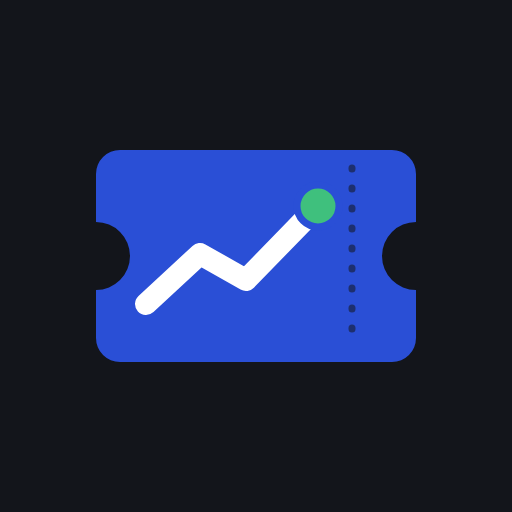
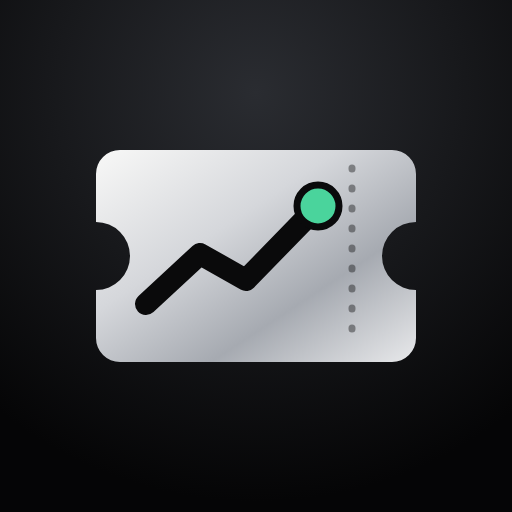
Vici: black and platinum redesign, Jost type, Starting Balance editor removed
Rename the app to Vici (title, home-screen label, manifest, connect screen).
Always-black colour scheme with platinum accents; display type is Jost light.
The Starting Balance editor is gone; settings stay in ledger.json.
New platinum icon set; service worker cache bumped to ledger-v2.

Claude-Session: https://claude.ai/code/session_013p2RnCi5cHiHWKuVkfNhgP

Changed region(s): [[0.1875, 0.2812, 0.8125, 0.7188]]

diff --git a/index.html b/index.html
@@ -3,65 +3,45 @@
 <head>
 <meta charset="utf-8">
 <meta name="viewport" content="width=device-width,initial-scale=1,viewport-fit=cover">
-<title>PrizePicks Ledger</title>
-<meta name="description" content="Personal PrizePicks bet tracker: balance, PnL, open risk and every entry.">
+<title>Vici</title>
+<meta name="description" content="Vici: personal PrizePicks bet tracker with balance, PnL, open risk and every entry.">
 <meta name="robots" content="noindex, nofollow">
 <link rel="manifest" href="manifest.webmanifest">
 <link rel="icon" href="icons/icon-192.png" type="image/png">
 <link rel="apple-touch-icon" href="icons/apple-touch-icon.png">
 <meta name="apple-mobile-web-app-capable" content="yes">
 <meta name="mobile-web-app-capable" content="yes">
-<meta name="apple-mobile-web-app-title" content="Ledger">
+<meta name="apple-mobile-web-app-title" content="Vici">
 <meta name="apple-mobile-web-app-status-bar-style" content="black-translucent">
-<meta name="theme-color" content="#13151b">
+<meta name="theme-color" content="#050506">
 <link rel="preconnect" href="https://fonts.googleapis.com">
 <link rel="preconnect" href="https://fonts.gstatic.com" crossorigin>
-<link rel="stylesheet" href="https://fonts.googleapis.com/css2?family=Barlow+Condensed:wght@500;600;700&family=Inter:wght@400;500;600&family=JetBrains+Mono:wght@400;500&display=swap">
+<link rel="stylesheet" href="https://fonts.googleapis.com/css2?family=Jost:wght@300;400;500&family=Inter:wght@400;500;600&family=JetBrains+Mono:wght@400;500&display=swap">
 <style>:root{color-scheme:light;box-sizing:border-box;padding-top:env(safe-area-inset-top,0px);padding-bottom:env(safe-area-inset-bottom,0px)}html{scroll-padding-top:env(safe-area-inset-top,0px);-webkit-text-size-adjust:100%}body{margin:0;padding:0}img{max-width:100%}[hidden]{display:none!important}</style>
 <script src="config.js"></script>
 <style>
 /* Layout: a sportsbook ticket ledger. Header, filter bar, KPI scoreboard, analytics grid (balance + records, open risk, PnL splits, edge, daily), open slips, entry log. */
+/* Colour scheme: Black & platinum. Always black, whatever the device or claude.ai theme. */
 :root {
-  --bg: #f3f4f7;
-  --panel: #ffffff;
-  --ink: #13151b;
-  --ink-2: #4a4f5c;
-  --ink-3: #7b8090;
-  --line: #e1e3ea;
-  --line-2: #eceef3;
-  --accent: #2a4fd6;
-  --accent-soft: #e6ebfc;
-  --good: #11804a;
-  --good-soft: #e3f4ea;
-  --bad: #c23a3a;
-  --bad-soft: #fbe7e7;
-  --warn: #a86a00;
-  --warn-soft: #fbf0d9;
-  --grid: #e9ebf0;
-  --s1: #2a78d6; --s2: #eb6834; --s3: #1baf7a; --s4: #eda100;
-  --shadow: 0 1px 2px rgba(20,24,40,.05), 0 6px 24px rgba(20,24,40,.05);
-  --f-display: "Barlow Condensed", "Arial Narrow", system-ui, sans-serif;
+  --bg: #050506; --panel: #0f1012; --ink: #f2f2f3; --ink-2: #acaeb4; --ink-3: #85888f;
+  --line: #26272b; --line-2: #18191c; --accent: #d6d8dc; --accent-soft: #1d1e22;
+  --good: #4ad49c; --good-soft: #0d2219; --bad: #ff7d88; --bad-soft: #2b1216; --warn: #f2b65e; --warn-soft: #2a2010;
+  --grid: #1c1d20; --s1: #9fb9ee; --s2: #ecaa8b; --s3: #c0b3ee; --s4: #88d1c3;
+  --shadow: inset 0 1px 0 rgba(255,255,255,.035), 0 14px 34px rgba(0,0,0,.6); --on-accent: #0a0a0b;
+  --accent-grad: linear-gradient(135deg, #f8f8f7 0%, #d5d7db 38%, #a6aab1 68%, #e8e9eb 100%);
+  --hero-bg: linear-gradient(155deg, #25272c 0%, #16171b 46%, #0f1012 100%);
+  --bg-deco: radial-gradient(1200px 560px at 50% -22%, rgba(222,224,228,.075), transparent 65%);
+  --f-display: "Jost", "Futura", "Avenir Next", system-ui, sans-serif;
   --f-body: "Inter", system-ui, -apple-system, "Segoe UI", sans-serif;
   --f-mono: "JetBrains Mono", ui-monospace, "SF Mono", Menlo, monospace;
   --r: 10px;
-  --on-accent: #ffffff;
+  --plat-text: linear-gradient(180deg, #ffffff 0%, #e4e6e9 46%, #a2a6ad 100%);
+  color-scheme: dark;
 }
-@media (prefers-color-scheme: dark) { :root:not([data-theme="light"]) {
-  --bg: #0f1116; --panel: #171a21; --ink: #eef0f5; --ink-2: #b4b9c6; --ink-3: #848a99;
-  --line: #2a2e38; --line-2: #22252d; --accent: #7f97ff; --accent-soft: #232b4a;
-  --good: #3fc07d; --good-soft: #15301f; --bad: #f07272; --bad-soft: #3a1c1e; --warn: #e3a93a; --warn-soft: #362a12;
-  --grid: #252832; --s1: #3987e5; --s2: #d95926; --s3: #199e70; --s4: #c98500;
-  --shadow: 0 1px 2px rgba(0,0,0,.3); --on-accent: #0f1116; color-scheme: dark; } }
-:root[data-theme="dark"] {
-  --bg: #0f1116; --panel: #171a21; --ink: #eef0f5; --ink-2: #b4b9c6; --ink-3: #848a99;
-  --line: #2a2e38; --line-2: #22252d; --accent: #7f97ff; --accent-soft: #232b4a;
-  --good: #3fc07d; --good-soft: #15301f; --bad: #f07272; --bad-soft: #3a1c1e; --warn: #e3a93a; --warn-soft: #362a12;
-  --grid: #252832; --s1: #3987e5; --s2: #d95926; --s3: #199e70; --s4: #c98500;
-  --shadow: 0 1px 2px rgba(0,0,0,.3); --on-accent: #0f1116; color-scheme: dark; }
 
 * { box-sizing: border-box; }
 [hidden] { display: none !important; }
-body { background: var(--bg); color: var(--ink); font-family: var(--f-body); font-size: 14px; line-height: 1.45; }
+body { background: var(--bg-deco) no-repeat, var(--bg); color: var(--ink); font-family: var(--f-body); font-size: 14px; line-height: 1.45; }
 .wrap { max-width: 1180px; margin: 0 auto; padding-block: 20px 48px; padding-left: max(16px, env(safe-area-inset-left, 0px)); padding-right: max(16px, env(safe-area-inset-right, 0px)); display: grid; gap: 18px; }
 .num, .mono { font-family: var(--f-mono); font-variant-numeric: tabular-nums; }
 button, input, select, textarea { font: inherit; color: inherit; }
@@ -77,9 +57,7 @@ button { cursor: pointer; }
 .actions { display: flex; flex-wrap: wrap; gap: 8px; align-items: center; }
 .btn { border: 1px solid var(--line); background: var(--panel); border-radius: 8px; padding: 8px 14px; font-weight: 500; transition: border-color .15s, background .15s; }
 .btn:hover { border-color: var(--ink-3); }
-.btn.primary { background: var(--accent); border-color: var(--accent); color: #fff; font-weight: 600; }
-:root[data-theme="dark"] .btn.primary { color: #0f1116; }
-@media (prefers-color-scheme: dark) { :root:not([data-theme="light"]) .btn.primary { color: #0f1116; } }
+.btn.primary { background: var(--accent-grad); border-color: transparent; color: var(--on-accent); font-weight: 600; }
 .btn.primary:hover { filter: brightness(1.08); }
 .btn.ghost { background: transparent; border-color: transparent; color: var(--ink-2); }
 .btn.ghost:hover { color: var(--ink); background: var(--line-2); }
@@ -99,7 +77,7 @@ button { cursor: pointer; }
 .kpi .k { font-size: 11px; text-transform: uppercase; letter-spacing: .08em; color: var(--ink-3); font-weight: 600; }
 .kpi .v { font-family: var(--f-display); font-weight: 600; font-size: 32px; line-height: 1.1; margin-top: 4px; font-variant-numeric: tabular-nums; white-space: nowrap; }
 .kpi .sub { font-size: 12px; color: var(--ink-2); margin-top: 2px; }
-.kpi.hero { background: var(--accent-soft); }
+.kpi.hero { background: var(--hero-bg); box-shadow: inset 0 2px 0 var(--accent); }
 .pos { color: var(--good); } .neg { color: var(--bad); }
 @media (max-width: 900px) { .board { grid-template-columns: repeat(3, minmax(0,1fr)); } .kpi:nth-child(4) { border-left: 0; } .kpi:nth-child(n+4) { border-top: 1px solid var(--line-2); } }
 @media (max-width: 520px) { .board { grid-template-columns: repeat(2, minmax(0,1fr)); } .kpi { border-left: 1px solid var(--line-2) !important; border-top: 1px solid var(--line-2); } .kpi:nth-child(odd) { border-left: 0 !important; } .kpi:nth-child(-n+2) { border-top: 0; } .kpi .v { font-size: 26px; } }
@@ -364,7 +342,7 @@ details.legend td, details.legend th { padding: 4px 10px; }
   .tabbar button { position: relative; display: grid; justify-items: center; gap: 3px; border: 0; background: none; padding: 5px 0 4px; min-height: 50px; font-size: 10.5px; font-weight: 600; letter-spacing: .03em; color: var(--ink-3); }
   .tabbar svg { width: 23px; height: 23px; fill: none; stroke: currentColor; stroke-width: 1.9; stroke-linecap: round; stroke-linejoin: round; }
   .tabbar button[aria-current="page"] { color: var(--accent); }
-  .tabbar .tb-add { align-self: center; justify-self: center; place-items: center; width: 54px; height: 54px; min-height: 0; padding: 0; margin-top: -22px; border-radius: 18px; background: var(--accent); color: var(--on-accent); box-shadow: 0 8px 20px color-mix(in srgb, var(--accent) 38%, transparent), 0 0 0 4px var(--bg); }
+  .tabbar .tb-add { align-self: center; justify-self: center; place-items: center; width: 54px; height: 54px; min-height: 0; padding: 0; margin-top: -22px; border-radius: 18px; background: var(--accent-grad); color: var(--on-accent); box-shadow: 0 8px 20px color-mix(in srgb, var(--accent) 38%, transparent), 0 0 0 4px var(--bg); }
   .tabbar .tb-add svg { width: 26px; height: 26px; stroke-width: 2.4; }
   .tabbar .tb-add[disabled] { opacity: .5; }
   .tb-n { position: absolute; top: 1px; left: calc(50% + 5px); min-width: 18px; height: 18px; padding: 0 5px; border-radius: 99px; background: var(--accent); color: var(--on-accent); font: 600 10.5px/18px var(--f-mono); letter-spacing: 0; }
@@ -374,16 +352,37 @@ details.legend td, details.legend th { padding: 4px 10px; }
   @keyframes sheet { from { transform: translateY(28px); opacity: .5; } to { transform: none; opacity: 1; } }
 }
 
+/* Black & platinum finish: metal wordmark and balance, brushed-platinum controls, a machined top edge on the balance card */
+.brand h1, .ab-name { letter-spacing: .34em; background: var(--plat-text); -webkit-background-clip: text; background-clip: text; color: transparent; }
+.kpi.hero .v, .ab-v { background: var(--plat-text); -webkit-background-clip: text; background-clip: text; color: transparent; }
+.panel, .board { background-image: linear-gradient(180deg, rgba(255,255,255,.025), rgba(255,255,255,0) 140px); }
+.kpi.hero { position: relative; box-shadow: none; }
+.kpi.hero::before { content: ""; position: absolute; inset: 0 0 auto; height: 2px; background: var(--accent-grad); }
+.btn.primary, .chip[aria-pressed="true"], .seg button[aria-pressed="true"] { background: var(--accent-grad); border-color: transparent; color: var(--on-accent); box-shadow: inset 0 1px 0 rgba(255,255,255,.55); }
+dialog::backdrop { background: rgba(0,0,0,.72); }
+/* Type: Jost, light and letter-spaced, in place of the condensed bold */
+.brand h1 { font-weight: 300; font-size: 32px; }
+.ab-name { font-weight: 300; font-size: 20px; }
+.kpi .v, .sc .v, .ab-v { font-weight: 300; }
+.panel h2 { font-weight: 400; font-size: 15px; letter-spacing: .16em; }
+.dlg header h3 { font-weight: 400; font-size: 17px; letter-spacing: .14em; }
+.slip .h .m { font-weight: 400; font-size: 18px; }
+.kpi .k, .sc .k, th, label.f, .pickrow.hdr, .ab-k { font-weight: 500; }
+@media (max-width: 700px) {
+  .tabbar { background: color-mix(in srgb, var(--bg) 88%, transparent); border-top-color: var(--line-2); }
+  .tabbar .tb-add { box-shadow: inset 0 1px 0 rgba(255,255,255,.6), 0 10px 24px rgba(0,0,0,.7), 0 0 0 4px var(--bg); }
+  .appbar { border-bottom-color: var(--line-2); }
+}
+
 /* ---------- Standalone app ---------- */
-:root { --bar-bg: #13151b; --bar-ink: #f3f4f7; --bar-ink-2: #9aa0b0; --bar-accent: #8ea3ff; }
-@media (prefers-color-scheme: dark) { :root:not([data-theme="light"]) { --bar-bg: #090b0f; } }
-:root[data-theme="dark"] { --bar-bg: #090b0f; }
+/* Black & platinum: the app bar is the page black in every mode */
+:root { --bar-bg: #050506; --bar-ink: #f2f2f3; --bar-ink-2: #9a9da4; --bar-accent: #d6d8dc; }
 .acct { display: block; }
 .top .actions .sync { margin-right: 6px; }
 @media (max-width: 700px) {
   body::before { background: var(--bar-bg); }
-  .appbar { background: var(--bar-bg); color: var(--bar-ink); border-bottom-color: transparent; -webkit-backdrop-filter: none; backdrop-filter: none; }
-  .ab-name span { color: var(--bar-accent); }
+  .appbar { background: var(--bar-bg); color: var(--bar-ink); border-bottom-color: var(--line-2); -webkit-backdrop-filter: none; backdrop-filter: none; }
+  .ab-name { color: var(--bar-ink); }
   .ab-k, .appbar .sync { color: var(--bar-ink-2); }
 }
 @media (display-mode: standalone) {
@@ -398,7 +397,7 @@ details.legend td, details.legend th { padding: 4px 10px; }
   padding-left: max(16px, env(safe-area-inset-left, 0px)); padding-right: max(16px, env(safe-area-inset-right, 0px)); }
 .cbox { width: min(440px, 100%); display: grid; gap: 14px; background: var(--panel); border: 1px solid var(--line); border-radius: 16px; box-shadow: var(--shadow); padding: 24px 22px; }
 .cbox .logo { width: 64px; height: 64px; border-radius: 15px; display: block; }
-.cbox h2 { font-family: var(--f-display); font-size: 30px; font-weight: 700; text-transform: uppercase; letter-spacing: .01em; margin: 0; line-height: 1; text-wrap: balance; }
+.cbox h2 { font-family: var(--f-display); font-size: 28px; font-weight: 300; text-transform: uppercase; letter-spacing: .34em; margin: 0; line-height: 1; text-wrap: balance; background: var(--plat-text); -webkit-background-clip: text; background-clip: text; color: transparent; }
 .cbox h2 span { color: var(--accent); }
 .cbox p { margin: 0; color: var(--ink-2); }
 .cbox a { color: var(--accent); font-weight: 500; }
@@ -417,20 +416,19 @@ details.legend td, details.legend th { padding: 4px 10px; }
 </head>
 <body>
 <div class="appbar">
-  <div class="ab-l"><span class="ab-name">PrizePicks <span>Ledger</span></span><span class="sync connecting"><i></i><span class="sync-t">Syncing…</span></span></div>
+  <div class="ab-l"><span class="ab-name">Vici</span><span class="sync connecting"><i></i><span class="sync-t">Syncing…</span></span></div>
   <div class="ab-r"><span class="ab-k">Balance</span><span class="ab-v" id="ab-bal">$250.00</span></div>
 </div>
 
 <div class="wrap" data-tab="home">
   <header class="top" data-tabs="home">
     <div class="brand">
-      <h1>PrizePicks <span>Ledger</span></h1>
+      <h1>Vici</h1>
       <p id="summary">Every entry, every pick, every dollar. Starting balance $250.</p>
     </div>
     <div class="actions">
       <span class="sync connecting"><i></i><span class="sync-t">Syncing…</span></span>
       <button class="btn ghost act-export" id="btn-export" type="button" hidden>Export CSV</button>
-      <button class="btn ghost act-settings" id="btn-settings" type="button">Starting balance</button>
       <button class="btn primary act-new" id="btn-new" type="button">+ Log entry</button>
     </div>
   </header>
@@ -553,15 +551,15 @@ details.legend td, details.legend th { padding: 4px 10px; }
     </section>
     <section class="panel span-12 acct" data-tabs="stats">
       <h2>Account</h2>
-      <p class="hint">Sync, starting balance and a copy of every entry</p>
+      <p class="hint">Sync and a copy of every entry</p>
       <div class="acct-meta" id="acct-meta"></div>
-      <div class="row-btns"><button class="btn" id="a-sync" type="button">Sync now</button><button class="btn act-settings" type="button">Starting balance</button><button class="btn act-export" type="button" hidden>Export CSV</button><button class="btn ghost" id="a-token" type="button">Change token</button><button class="btn ghost danger" id="a-out" type="button">Disconnect this device</button></div>
+      <div class="row-btns"><button class="btn" id="a-sync" type="button">Sync now</button><button class="btn act-export" type="button" hidden>Export CSV</button><button class="btn ghost" id="a-token" type="button">Change token</button><button class="btn ghost danger" id="a-out" type="button">Disconnect this device</button></div>
       <div class="row-btns" id="a-out-confirm" hidden><span class="note" id="a-out-warn"></span><button class="btn danger" id="a-out-yes" type="button">Disconnect</button><button class="btn ghost" id="a-out-no" type="button">Keep</button></div>
     </section>
   </div>
 </div>
 
-<nav class="tabbar" aria-label="Ledger sections">
+<nav class="tabbar" aria-label="Vici sections">
   <button type="button" data-go="home" aria-current="page"><svg viewBox="0 0 24 24" aria-hidden="true"><path d="M3 20h18"/><path d="M4 16l5-6 4 3 7-8"/></svg>Home</button>
   <button type="button" data-go="open"><svg viewBox="0 0 24 24" aria-hidden="true"><path d="M4 8a2 2 0 0 1 2-2h12a2 2 0 0 1 2 2v1.5a2.5 2.5 0 0 0 0 5V16a2 2 0 0 1-2 2H6a2 2 0 0 1-2-2v-1.5a2.5 2.5 0 0 0 0-5z"/><path d="M14 7.5v9" stroke-dasharray="1.6 2.4"/></svg>Open<span class="tb-n" id="tb-open" hidden></span></button>
   <button type="button" class="tb-add act-new" aria-label="Log entry"><svg viewBox="0 0 24 24" aria-hidden="true"><path d="M12 5v14M5 12h14"/></svg></button>
@@ -572,7 +570,7 @@ details.legend td, details.legend th { padding: 4px 10px; }
 <div class="connect" id="connect" hidden>
   <form class="cbox" id="connect-form" novalidate>
     <img class="logo" src="icons/icon-192.png" alt="" width="64" height="64">
-    <h2>PrizePicks <span>Ledger</span></h2>
+    <h2>Vici</h2>
     <p>Your bets sync through your private GitHub repo. Paste a token for it once and this device stays connected.</p>
     <label class="f">Data repo<input class="in" id="c-repo" autocomplete="off" autocapitalize="none" autocorrect="off" spellcheck="false" placeholder="username/pp-ledger-data"></label>
     <label class="f">GitHub token<input class="in" id="c-token" type="password" autocomplete="off" autocapitalize="none" autocorrect="off" spellcheck="false" placeholder="github_pat_…"></label>
@@ -610,18 +608,6 @@ details.legend td, details.legend th { padding: 4px 10px; }
       <div><button type="button" class="btn danger" id="dlg-delete" hidden>Delete entry</button><span id="del-confirm" hidden> <span class="note">Delete for good?</span> <button type="button" class="btn danger" id="del-yes">Delete</button> <button type="button" class="btn ghost" id="del-no">Keep</button></span></div>
       <div style="display:flex;gap:8px"><button type="button" class="btn" id="dlg-cancel">Cancel</button><button type="submit" class="btn primary" id="dlg-save">Save entry</button></div>
     </footer>
-  </form>
-</dialog>
-
-<dialog id="dlg-set" aria-labelledby="set-title" style="width:min(420px, calc(100vw - 24px))">
-  <form class="dlg" id="set-form" novalidate>
-    <header><h3 id="set-title">Starting balance</h3><button type="button" class="btn ghost" id="set-close" aria-label="Close">✕</button></header>
-    <div class="body">
-      <label class="f">Starting balance ($)<input class="in" type="number" id="s-start" min="0" step="0.01"></label>
-      <label class="f">Start date<input class="in" type="date" id="s-date"></label>
-      <p class="note">Raise it when you deposit more. Your entry history stays as it is.</p>
-    </div>
-    <footer><span></span><div style="display:flex;gap:8px"><button type="button" class="btn" id="set-cancel">Cancel</button><button type="submit" class="btn primary">Save</button></div></footer>
   </form>
 </dialog>
 
@@ -1171,12 +1157,6 @@ details.legend td, details.legend th { padding: 4px 10px; }
   // datalists for stats
   for (const s of SPORTS) document.body.append(el("datalist", { id: "dl-" + s }, STATS[s].map(v => el("option", { value: v }))));
 
-  // ---------- Starting balance ----------
-  const sdlg = $("#dlg-set");
-  $$(".act-settings").forEach(b => b.addEventListener("click", () => { $("#s-start").value = state.settings.starting; $("#s-date").value = state.settings.startDate; sdlg.showModal(); }));
-  $("#set-close").addEventListener("click", () => sdlg.close()); $("#set-cancel").addEventListener("click", () => sdlg.close());
-  $("#set-form").addEventListener("submit", async ev => { ev.preventDefault(); const v = num($("#s-start").value); if (v == null || v < 0) return; const d = { starting: v, startDate: $("#s-date").value || state.settings.startDate }; try { if (state.db) await state.db.doc("settings/bankroll").set(d); state.settings = d; sdlg.close(); render(); toast("Starting balance updated"); } catch (e) { toast("Couldn't save the starting balance"); } });
-
   // ---------- Filters ----------
   $$("[data-sport]").forEach(b => b.addEventListener("click", () => { state.sport = b.dataset.sport; press("[data-sport]", b); render(); }));
   $$("[data-tf]").forEach(b => b.addEventListener("click", () => { state.typeF = b.dataset.tf; press("[data-tf]", b); render(); }));
@@ -1407,7 +1387,7 @@ details.legend td, details.legend th { padding: 4px 10px; }
   function showInstall(kind) {
     if (standalone() || LS.get("installDismissed")) return;
     const box = $("#install"); box.hidden = false;
-    $("#install-t").textContent = kind === "prompt" ? "Install the Ledger as an app for full-screen launch and offline use." : "Add the Ledger to your home screen: tap Share, then Add to Home Screen.";
+    $("#install-t").textContent = kind === "prompt" ? "Install Vici as an app for full-screen launch and offline use." : "Add Vici to your home screen: tap Share, then Add to Home Screen.";
     $("#install-go").hidden = kind !== "prompt";
   }
   window.addEventListener("beforeinstallprompt", e => { e.preventDefault(); deferredInstall = e; showInstall("prompt"); });

diff --git a/sw.js b/sw.js
@@ -1,5 +1,5 @@
 // Ledger service worker: the app opens offline from its cache, and your bets come from GitHub whenever there's signal.
-const CACHE = "ledger-v1";
+const CACHE = "ledger-v2";
 const SHELL = ["./", "./index.html", "./config.js", "./manifest.webmanifest", "./icons/icon-192.png", "./icons/icon-512.png", "./icons/apple-touch-icon.png"];
 
 self.addEventListener("install", e => {

diff --git a/README.md b/README.md
@@ -1,4 +1,4 @@
-# PrizePicks Ledger
+# Vici
 
 A personal bet tracker that installs on your phone like an app: balance, PnL, open risk, edge vs break-even and every entry. Not affiliated with PrizePicks.
 
